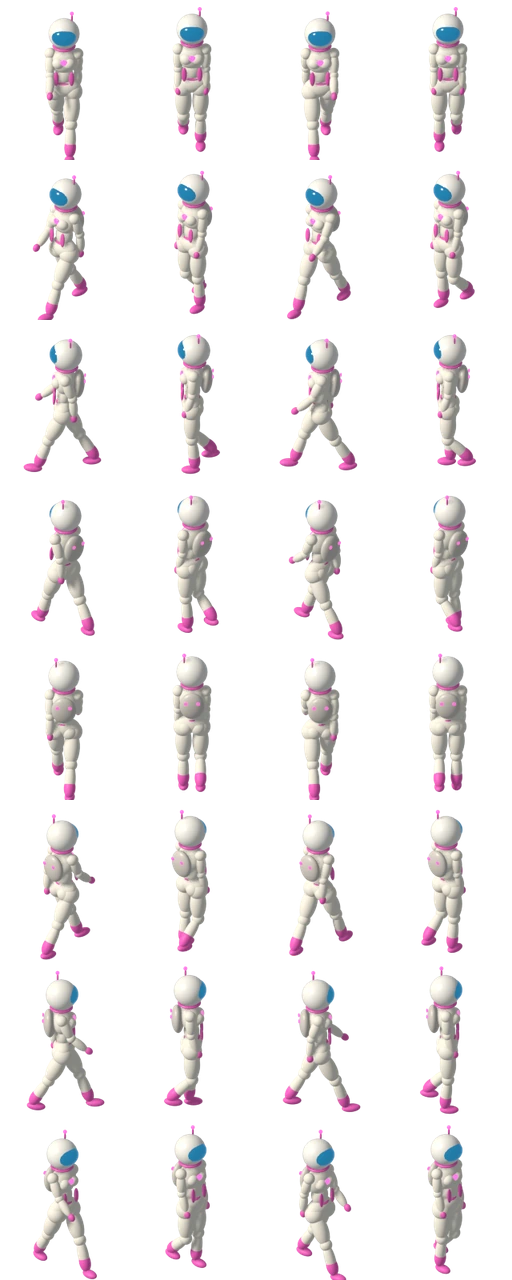
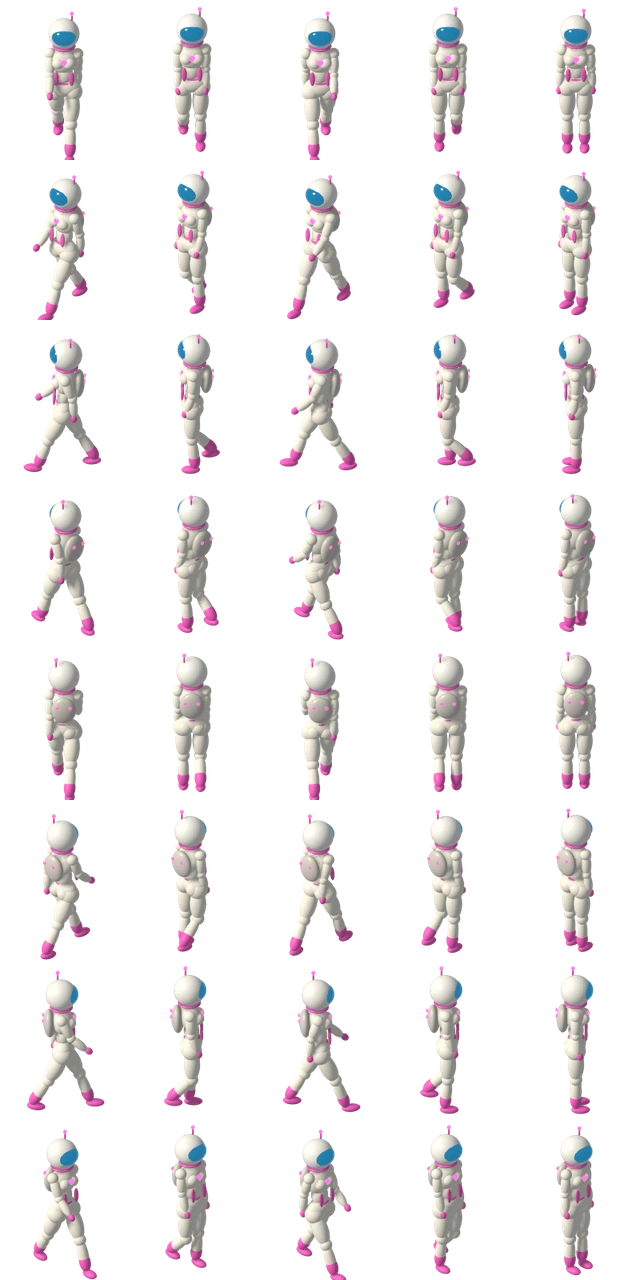
Home plot: tap a thing to highlight it and get its menu at your finger (walks over and does it); standing idle pose; broader men; child bodies for kids (Olive taller than Hazel)
Claude-Session: https://claude.ai/code/session_018NGm5XoDovnLUTYRHnUZCu

diff --git a/living-town/public/homestead.js b/living-town/public/homestead.js
@@ -127,9 +127,46 @@
 
   // --- the bar of buttons along the bottom (thumbs) ---
   const esc = s => String(s).replace(/[&<>"]/g, c => ({ "&": "&amp;", "<": "&lt;", ">": "&gt;", '"': "&quot;" })[c]);
-  function setBar(title, buttons) {
+  let setBar = function (title, buttons) {
     bar.innerHTML = `${title ? `<p class="home-title">${title}</p>` : ""}<div class="home-actions">${buttons.map((b, i) => `<button data-i="${i}" ${b.off ? "disabled" : ""} class="${b.big ? "big" : ""}">${b.label}</button>`).join("")}</div>`;
     bar.querySelectorAll("button").forEach(btn => { btn.onclick = () => buttons[Number(btn.dataset.i)].go(); });
+  };
+
+  // --- the pop-up menu right at your finger: tap a thing, it lights up, pick what to do ---
+  let pop = null, popAt = null, highlight = null;
+  const CLOSERS = /^(Done|OK|Stay|Back)$/;
+  function near(t) { return Math.hypot(me.x - t.x, me.y - t.y) < 0.6 && !me.path.length; }
+  function showPop(t, at) {
+    const menu = menuFor(t); if (!menu) return;
+    highlight = t; popAt = at; me.popTarget = t;
+    const buttons = menu.buttons.map(b => ({ ...b, go: CLOSERS.test(b.label) ? hidePop : () => {
+      hidePop(true);
+      if (near(t)) b.go(); else { me.pending = b.go; walkTo(t, true); }
+    } }));
+    pop.innerHTML = `${menu.title ? `<p class="home-title">${menu.title}</p>` : ""}<div class="home-actions">${buttons.map((b, i) => `<button data-i="${i}" ${b.off ? "disabled" : ""} class="${b.big ? "big" : ""}">${b.label}</button>`).join("")}</div>`;
+    pop.querySelectorAll("button").forEach(btn => { btn.onclick = e => { e.stopPropagation(); buttons[Number(btn.dataset.i)].go(); }; });
+    pop.classList.remove("hidden");
+    const W = el.clientWidth, H = el.clientHeight, w = pop.offsetWidth, h = pop.offsetHeight;
+    const x = Math.max(8, Math.min(W - w - 8, at.x - w / 2));
+    const y = at.y - h - 24 > 60 ? at.y - h - 24 : Math.min(H - h - 90, at.y + 24);
+    pop.style.left = x + "px"; pop.style.top = y + "px";
+  }
+  function hidePop(keepHighlight) { pop?.classList.add("hidden"); if (!keepHighlight) { highlight = null; popAt = null; } }
+  function drawHighlight(t) {
+    if (!highlight) return;
+    const pulse = 0.55 + 0.45 * Math.sin(t / 180);
+    ctx.save(); ctx.lineWidth = 3; ctx.strokeStyle = `rgba(255,236,120,${0.6 + 0.4 * pulse})`; ctx.shadowColor = "#ffe27a"; ctx.shadowBlur = 14;
+    ctx.beginPath();
+    if (highlight.kind === "plot") {
+      const r = plotRect(highlight.plot);
+      [[r.x0 - 0.06, r.y0 - 0.06], [r.x1 + 0.06, r.y0 - 0.06], [r.x1 + 0.06, r.y1 + 0.06], [r.x0 - 0.06, r.y1 + 0.06]].forEach(([x, y], i) => { const [sx, sy] = toScreen(...P(x, y, 0.25)); i ? ctx.lineTo(sx, sy) : ctx.moveTo(sx, sy); });
+      ctx.closePath();
+    } else {
+      const c = highlight.kind === "pond" ? [L.pond.x, L.pond.y, Math.max(L.pond.rx, L.pond.ry) + 0.3] : highlight.kind === "mailbox" ? [L.mailbox[0], L.mailbox[1], 0.6]
+        : highlight.kind === "crate" ? [L.crate[0], L.crate[1], 0.8] : highlight.kind === "door" ? [L.house.door[0] + 0.3, L.house.door[1], 1.0] : [highlight.x, highlight.y, 0.8];
+      for (let i = 0; i <= 40; i++) { const a = i / 40 * Math.PI * 2; const [sx, sy] = toScreen(...P(c[0] + Math.cos(a) * c[2], c[1] + Math.sin(a) * c[2])); i ? ctx.lineTo(sx, sy) : ctx.moveTo(sx, sy); }
+    }
+    ctx.stroke(); ctx.restore();
   }
   function idleBar() {
     setBar("", [{ label: "🎒 Bag", go: showBag }, { label: "🌍 World", go: worldBar }, { label: "🏘 To town", go: () => walkTo({ kind: "exit", x: L.exit[0], y: L.exit[1] }) }]);
@@ -143,7 +180,15 @@
     load().then(() => Object.assign(me, keep)).catch(err => console.error(err));
   }
   function act(action, extra = {}) { opts.send({ type: "home", action, ...extra }); }
-  function contextBar(t) {
+  // The menu for a thing, as { title, buttons } (captured from what contextBar would show).
+  function menuFor(t) {
+    let menu = null; const real = setBar;
+    setBar = (title, buttons) => { menu = { title, buttons }; };
+    try { contextBarInner(t); } finally { setBar = real; }
+    return menu;
+  }
+  function contextBar(t) { contextBarInner(t); }
+  function contextBarInner(t) {
     if (!view) return idleBar();
     const C = view.crops;
     if (t.kind === "plot") {
@@ -189,10 +234,10 @@
     }
     ctx.drawImage(space, 0, 0);
   }
-  function walkTo(t) {
-    fishing = null;
+  function walkTo(t, keepPending) {
+    fishing = null; if (!keepPending) me.pending = null;
     me.target = t; me.path = route(t.x, t.y); marker = { x: t.x, y: t.y, at: performance.now() };
-    if (t.kind !== "walk") setBar("", [{ label: "…", off: true, go() {} }]); else idleBar();
+    idleBar();
   }
 
   // --- fishing: wait for the bobber to dip, then tap Reel! in time ---
@@ -244,7 +289,7 @@
       return setBar(`✉ From ${esc(r.letter.from)}: “${esc(r.letter.text)}”<br>🎁 ${esc(r.letter.gift)}`, [{ label: "Thanks!", big: true, go: idleBar }]);
     }
     if (r.fish) { fishing = null; return setBar(`${sprIcon("fish_" + r.fish, 64)} ${esc(view.fish[r.fish].name)}${r.first ? " · new!" : ""}`, [{ label: "🎣 Again", big: true, go: () => startFishing(me.target) }, { label: "Done", go: idleBar }]); }
-    if (me.target && me.target.kind !== "walk" && !me.path.length) contextBar(me.target);
+    if (popAt && me.popTarget && me.target === me.popTarget && !me.path.length && !fishing) showPop(me.popTarget, popAt);
   }
 
   // --- drawing ---
@@ -256,9 +301,9 @@
   }
   function walkerFor(id) {
     const r = opts.resident(id); const s = r?.look?.style || "";
-    if (id === "hazel" || (r && Number(r.profile?.age) > 0 && Number(r.profile.age) < 11)) return "kid_female";
+    if (id === "hazel" || id === "olive" || (r && Number(r.profile?.age) > 0 && Number(r.profile.age) < 13)) return /long|pigtails|buns|bunny|ribbons|curls/.test(s) || id === "hazel" || id === "olive" ? "kid_female" : "kid_male";
     if (id === "dad") return "male";
-    return /long|pigtails|buns|bunny|ribbons|curls/.test(s) || id === "olive" ? "female" : "male";
+    return /long|pigtails|buns|bunny|ribbons|curls/.test(s) ? "female" : "male";
   }
   function drawSprite(name, x, y) {
     const s = A.sprites[name]; if (!s) return; const [px, py] = P(x, y); const [sx, sy] = toScreen(px - s.ax, py - s.ay);
@@ -266,11 +311,11 @@
   }
   function drawWalker(id, p) {
     const key = walkerFor(id), w = A.walkers[key], img = imgs["walk_" + key]; if (!w || !img) return;
-    const [px, py] = P(p.x, p.y), f = p.moving ? Math.floor(p.step * 2.2) % 4 : 0;
-    const [sx, sy] = toScreen(px - w.ax, py - w.ay);
+    const [px, py] = P(p.x, p.y), f = p.moving ? Math.floor(p.step * 2.2) % 4 : 4;   // frame 4: standing, feet together
+    const k = id === "olive" ? 1.18 : 1;   // Olive is a bit older and taller than Hazel
     ctx.fillStyle = "rgba(0,0,0,0.16)"; ctx.beginPath(); const [cx, cy] = toScreen(px, py); ctx.ellipse(cx, cy, 15 * cam.z * 1.6, 6 * cam.z * 1.6, 0, 0, Math.PI * 2); ctx.fill();
-    ctx.drawImage(img, f * w.cw, p.dir * w.ch, w.cw, w.ch, sx, sy, w.cw * cam.z, w.ch * cam.z);
-    if (p.name) { const tall = (key.startsWith("kid") ? 92 : 135) * cam.z; ctx.font = `600 ${Math.max(11, 13 * cam.z * 1.4)}px system-ui`; ctx.textAlign = "center"; ctx.fillStyle = "rgba(20,30,50,0.75)"; ctx.fillText(p.name, cx, cy - tall); }
+    ctx.drawImage(img, f * w.cw, p.dir * w.ch, w.cw, w.ch, cx - w.ax * cam.z * k, cy - w.ay * cam.z * k, w.cw * cam.z * k, w.ch * cam.z * k);
+    if (p.name) { const tall = (key.startsWith("kid") ? 92 * k : 135) * cam.z; ctx.font = `600 ${Math.max(11, 13 * cam.z * 1.4)}px system-ui`; ctx.textAlign = "center"; ctx.fillStyle = "rgba(20,30,50,0.75)"; ctx.fillText(p.name, cx, cy - tall); }
   }
   function stepWalker(p, dt) {
     let budget = SPEED * dt; p.moving = false;
@@ -290,7 +335,9 @@
       stepWalker(me, dt);
       if (wasMoving && !me.path.length && me.target) {
         if (me.target.kind === "pond") faceToward(me.target.cast.x, me.target.cast.y);
-        if (me.target.kind !== "walk") contextBar(me.target);
+        highlight = null;
+        if (me.pending) { const go = me.pending; me.pending = null; go(); }
+        else if (me.target.kind === "exit") close();
       }
       for (const o of others.values()) {
         const gap = Math.hypot(o.tx - o.x, o.ty - o.y);
@@ -337,6 +384,7 @@
     let drawnHouse = false;
     for (const it of items) { if (!drawnHouse && inFront(it)) { house.draw(); drawnHouse = true; } it.draw(); }
     if (!drawnHouse) house.draw();
+    drawHighlight(t);
     // tap marker, splash, fishing bobber
     if (marker && t - marker.at < 700) { const [sx, sy] = toScreen(...P(marker.x, marker.y)); ctx.strokeStyle = "rgba(255,255,255,0.9)"; ctx.lineWidth = 2; ctx.beginPath(); ctx.ellipse(sx, sy, 16 * (1 - (t - marker.at) / 900), 7 * (1 - (t - marker.at) / 900), 0, 0, Math.PI * 2); ctx.stroke(); }
     if (splash && t - splash.at < 900) { const r = plotRect(splash.plot); const [sx, sy] = toScreen(...P(r.cx, r.cy)); ctx.font = "26px system-ui"; ctx.textAlign = "center"; ctx.fillText("💧", sx, sy - 30 - (t - splash.at) / 30); }
@@ -358,7 +406,9 @@
     const rect = canvas.getBoundingClientRect(), [px, py] = fromScreen(e.clientX - rect.left, e.clientY - rect.top);
     // Tap another family member: wave.
     for (const o of others.values()) { const [ox, oy] = P(o.x, o.y); if (Math.abs(px - ox) < 30 && py > oy - 140 && py < oy + 10) { opts.toast(`👋 You waved at ${o.name}!`); return; } }
-    walkTo(targetAt(px, py));
+    const t = targetAt(px, py);
+    if (t.kind === "walk") { hidePop(); walkTo(t); return; }
+    showPop(t, { x: e.clientX - rect.left, y: e.clientY - rect.top });
   }
   function open() {
     if (!opts.me()) return opts.toast("Sign in to visit your home.");
@@ -368,18 +418,18 @@
       act("enter"); idleBar(); cam.ready = false; requestAnimationFrame(frame);
     }).catch(err => { console.error(err); opts.toast("The home plot couldn't load."); close(); });
   }
-  function close() { if (!isOpen) return; isOpen = false; fishing = null; el.classList.add("hidden"); act("leave"); me.placed = false; opts.onClose?.(); }
+  function close() { if (!isOpen) return; isOpen = false; fishing = null; hidePop(); el.classList.add("hidden"); act("leave"); me.placed = false; opts.onClose?.(); }
 
   window.LivingTownHome = {
     init(o) {
       opts = o;
       el = document.createElement("div"); el.id = "homestead"; el.className = "homestead hidden";
-      el.innerHTML = `<canvas></canvas><div class="home-top"></div><div class="home-bar"></div>`;
+      el.innerHTML = `<canvas></canvas><div class="home-top"></div><div class="home-bar"></div><div class="home-pop hidden"></div>`;
       document.body.appendChild(el);
-      canvas = el.querySelector("canvas"); ctx = canvas.getContext("2d"); top = el.querySelector(".home-top"); bar = el.querySelector(".home-bar");
+      canvas = el.querySelector("canvas"); ctx = canvas.getContext("2d"); top = el.querySelector(".home-top"); bar = el.querySelector(".home-bar"); pop = el.querySelector(".home-pop");
       canvas.addEventListener("click", onTap);
     },
     open, close, onState, get isOpen() { return isOpen; },
-    _test: { route: (x, y) => route(x, y), blockedAt: (x, y) => blockedAt(x, y), plotTarget: k => { const r = plotRect(k); return { x: r.cx + 0.2, y: r.y0 - 0.25 }; }, me }
+    _test: { route: (x, y) => route(x, y), blockedAt: (x, y) => blockedAt(x, y), plotTarget: k => { const r = plotRect(k); return { x: r.cx + 0.2, y: r.y0 - 0.25 }; }, screenOf: (x, y) => toScreen(...P(x, y)), plotRect: k => plotRect(k), me }
   };
 })();

diff --git a/living-town/public/map.css b/living-town/public/map.css
@@ -257,3 +257,10 @@ ul.today-list li { grid-template-columns: auto 1fr; }
 .fish-card.unknown .home-icon { filter: brightness(0) opacity(0.45); }
 .home-icon { display: inline-flex; align-items: center; justify-content: center; }
 .home-icon i { display: block; background-repeat: no-repeat; }
+
+/* home plot: the menu that pops up right where you tapped */
+.home-pop { position: absolute; z-index: 5; width: min(270px, calc(100% - 16px)); padding: 10px; border-radius: 18px; background: rgba(22, 26, 44, 0.94);
+  box-shadow: 0 8px 28px rgba(0,0,0,0.45), 0 0 0 2px rgba(255,226,122,0.55); color: #fff; animation: home-pop-in 0.14s ease-out; }
+.home-pop.hidden { display: none; }
+.home-pop .home-actions button { flex: 1 1 45%; min-height: 46px; }
+@keyframes home-pop-in { from { transform: scale(0.85); opacity: 0; } to { transform: scale(1); opacity: 1; } }

diff --git a/living-town/art/blender/walker.py b/living-town/art/blender/walker.py
@@ -76,9 +76,11 @@ OUTFITS = {  # colours per body region; 'clay' is the plain white template
                hat=None, hair=(0.55, 0.34, 0.18), eye=(0.06, 0.04, 0.03), beard=None, sex='female', hairk='long', bow=(1.0, 0.45, 0.65), scale=0.66, kid=True),
 }
 def build(sex, O):
-    F = sex == 'female'; lin = (lambda c: c) if O.get('name', '').startswith('clay') else (lambda c: tuple(x ** 2.2 for x in c))  # outfit colours are sRGB
+    F = sex == 'female' and not O.get('kid');   # children get a plain child's body
+    G = sex == 'female'                          # (still used for hair / trim colour)
+    BUFF = sex == 'male' and not O.get('kid'); lin = (lambda c: c) if O.get('name', '').startswith('clay') else (lambda c: tuple(x ** 2.2 for x in c))  # outfit colours are sRGB
     if O.get('space'):  # trim colour for this walker: gloves, boots, belt
-        acc = O['accent_f' if F else 'accent_m']; O = dict(O, skin=acc, boots=acc, belt=acc, bald=True)
+        acc = O['accent_f' if G else 'accent_m']; O = dict(O, skin=acc, boots=acc, belt=acc, bald=True)
     M = {k: mat(lin(v), 0.75 if k in ('shirt', 'pants', 'hat') else 0.55) for k, v in O.items() if isinstance(v, tuple)}
     skin, shirt, pants, boots, belt, hair, eye = (M[k] for k in ('skin', 'shirt', 'pants', 'boots', 'belt', 'hair', 'eye'))
     s = O.get('scale', 0.95 if F else 1.0)  # overall scale
@@ -90,10 +92,12 @@ def build(sex, O):
     spine = empty('spine', hips, (0, 0, 0.08)); J['spine'] = spine
     blob(spine, (0, 0, 0.12), (0.12 if F else 0.16, 0.10 if F else 0.12, 0.14), shirt)  # waist
     if 'clay' not in O.get('name', ''): blob(spine, (0, 0, 0.02), (0.165 if not F else 0.13, 0.125 if not F else 0.105, 0.03), belt)  # belt
-    blob(spine, (0, 0, 0.33), (0.18 if F else 0.22, 0.14, 0.18), shirt)                         # chest
+    blob(spine, (0, 0, 0.33), (0.18 if F else (0.27 if BUFF else 0.22), 0.14 if not BUFF else 0.17, 0.18 if not BUFF else 0.2), shirt)  # chest (broad for grown men)
+    if BUFF:
+        for sx in (-1, 1): blob(spine, (sx * 0.2, 0, 0.42), (0.1, 0.1, 0.09), shirt)             # shoulders
     if F:
         for sx in (-1, 1): blob(spine, (sx * 0.07, -0.1, 0.33), (0.08, 0.075, 0.075), shirt)
-    blob(spine, (0, 0, 0.53), (0.05, 0.05, 0.07), skin)                                         # neck
+    blob(spine, (0, 0, 0.53), (0.065 if BUFF else 0.05, 0.065 if BUFF else 0.05, 0.07), skin)   # neck
     head = empty('head', spine, (0, 0, 0.66)); J['head'] = head
     if O.get('kid'): head.scale = (1.3, 1.3, 1.3)
     blob(head, (0, 0, 0.05), (0.13, 0.14, 0.155), skin)                                        # skull
@@ -111,7 +115,7 @@ def build(sex, O):
     elif O.get('hairk') == 'long':
         blob(head, (0, 0.03, 0.1), (0.145, 0.15, 0.125), hair); blob(head, (0, 0.09, -0.1), (0.13, 0.08, 0.18), hair)  # long down the back
         if O.get('bow'): blob(head, (0.09, 0.05, 0.17), (0.06, 0.03, 0.04), M['bow']); blob(head, (0.09, 0.05, 0.17), (0.02, 0.035, 0.02), M['bow'])
-    elif F:
+    elif G:
         blob(head, (0, 0.03, 0.1), (0.14, 0.145, 0.125), hair)                                  # hair cap
         blob(head, (0, 0.15, 0.07), (0.08, 0.075, 0.08), hair)                                 # bun
         blob(head, (0, 0.17, -0.1), (0.05, 0.05, 0.13), hair)                                   # ponytail
@@ -141,12 +145,12 @@ def build(sex, O):
         for sx in (-1, 1): blob(spine, (sx * 0.08, 0.25, 0.38), (0.025, 0.012, 0.025), mat(acc, 0.3, 1.5))
         blob(spine, (0, -0.15, 0.36), (0.05, 0.02, 0.04), mat(acc, 0.3, 1.8))                   # chest light
         for sx in (-1, 1): blob(spine, (sx * 0.1, -0.13, 0.12), (0.035, 0.02, 0.1), mat(acc, 0.4))  # suit stripes
-    sw = 0.175 if F else 0.22; rolled = O.get('sleeves') == 'rolled'
+    sw = 0.175 if F else (0.26 if BUFF else 0.22); rolled = O.get('sleeves') == 'rolled'
     for side, sx in (('L', 1), ('R', -1)):
         sh = empty('sh' + side, spine, (sx * sw, 0, 0.42)); J['sh' + side] = sh
-        limb(sh, 0.27, 0.055 if F else 0.065, 0.045, M.get('coat', shirt))
+        limb(sh, 0.27, 0.055 if F else (0.085 if BUFF else 0.065), 0.058 if BUFF else 0.045, M.get('coat', shirt))
         el = empty('el' + side, sh, (0, 0, -0.28)); J['el' + side] = el
-        limb(el, 0.25, 0.045, 0.038, skin if rolled else M.get('coat', shirt)); blob(el, (0, -0.01, -0.29), (0.04, 0.045, 0.055), skin)  # forearm + hand
+        limb(el, 0.25, 0.056 if BUFF else 0.045, 0.045 if BUFF else 0.038, skin if rolled else M.get('coat', shirt)); blob(el, (0, -0.01, -0.29), (0.04, 0.045, 0.055), skin)  # forearm + hand
         if rolled: blob(el, (0, 0, -0.02), (0.068, 0.068, 0.045), shirt)                        # rolled cuff
         hp = empty('hp' + side, hips, (sx * (0.11 if F else 0.09), 0, -0.04)); J['hp' + side] = hp
         limb(hp, 0.42, 0.095 if F else 0.08, 0.06, pants)
@@ -167,6 +171,12 @@ def pose(J, t):
     J['spine'].rotation_euler = (R(-3), 0, R(5 * c)); J['hips'].rotation_euler.z = R(-6 * c)
     J['head'].rotation_euler.x = R(3)
 
+def stand(J):
+    for k in ('hpL', 'hpR', 'knL', 'knR', 'anL', 'anR'): J[k].rotation_euler.x = 0
+    J['shL'].rotation_euler.x = J['shR'].rotation_euler.x = 0; J['shL'].rotation_euler.y = R(-4); J['shR'].rotation_euler.y = R(4)
+    J['elL'].rotation_euler.x = J['elR'].rotation_euler.x = R(-8)
+    J['spine'].rotation_euler = (0, 0, 0); J['hips'].rotation_euler.z = 0; J['head'].rotation_euler.x = R(2)
+
 def ground(J):  # drop the body so the lowest foot touches the ground
     bpy.context.view_layer.update(); J['root'].location.z = 0; bpy.context.view_layer.update()
     low = min((o.matrix_world @ Vector(v)).z for o in bpy.context.scene.objects if o.type == 'MESH' for v in o.bound_box)
@@ -183,6 +193,9 @@ for sex in (('male', 'female') if O['sex'] == 'both' else (O['sex'],)):
         for f in range(FRAMES):
             pose(J, f / FRAMES); ground(J)
             sc.render.filepath = os.path.join(OUT, sex, 'd%d_f%d.png' % (d, f)); bpy.ops.render.render(write_still=True)
+        stand(J); ground(J)
+        sc.render.filepath = os.path.join(OUT, sex, 'd%d_f%d.png' % (d, FRAMES)); bpy.ops.render.render(write_still=True)
+        J['shL'].rotation_euler.y = J['shR'].rotation_euler.y = 0
     J['root'].rotation_euler.z = R(45)  # save with the walk cycle keyframed (frames 1-25 loop, one key every 6 frames)
     sc.frame_start, sc.frame_end = 1, 24
     for k in range(5):

diff --git a/living-town/art/build_homestead.py b/living-town/art/build_homestead.py
@@ -36,7 +36,7 @@ for name, im, px, py, ax, ay in place:
     atlas.alpha_composite(im, (px, py)); art['sprites'][name] = {'x': px, 'y': py, 'w': im.width, 'h': im.height, 'ax': round(ax, 1), 'ay': round(ay, 1)}
 atlas.save(os.path.join(OUT, 'sprites.webp'), quality=92, method=6)
 
-# walkers: 8 rows (S, SW, W, NW, N, NE, E, SE) x 4 frames, at 0.8 of the render (= the ground's pixels per metre)
+# walkers: 8 rows (S, SW, W, NW, N, NE, E, SE) x 4 walk frames + 1 standing frame, at 0.8 of the render (= the ground's pixels per metre)
 CW, CH, SC = 192, 256, 0.8
 X0, Y0, OW, OH = 16, 20, 160, 200
 WALK = ('space', 'space_kid') if WORLD == 'scifi' else ('clay', 'clay_kid')   # sci-fi: space suits
@@ -44,9 +44,9 @@ for folder, kinds in ((WALK[0], ('male', 'female')), (WALK[1], ('male', 'female'
     meta = json.load(open(os.path.join(WD, folder, 'anchors.json')))
     for sex in kinds:
         key = ('kid_' if folder == WALK[1] else '') + sex
-        ow, oh = round(OW * SC), round(OH * SC); sheet = Image.new('RGBA', (ow * 4, oh * 8))
+        ow, oh = round(OW * SC), round(OH * SC); sheet = Image.new('RGBA', (ow * 5, oh * 8))
         for d in range(8):
-            for f in range(4):
+            for f in range(5):
                 im = Image.open(os.path.join(WD, folder, sex, 'd%d_f%d.png' % (d, f))).convert('RGBA')
                 sheet.alpha_composite(im.crop((X0, Y0, X0 + OW, Y0 + OH)).resize((ow, oh), Image.LANCZOS), (f * ow, d * oh))
         sheet.save(os.path.join(OUT, 'walk_%s.webp' % key), quality=92, method=6)
